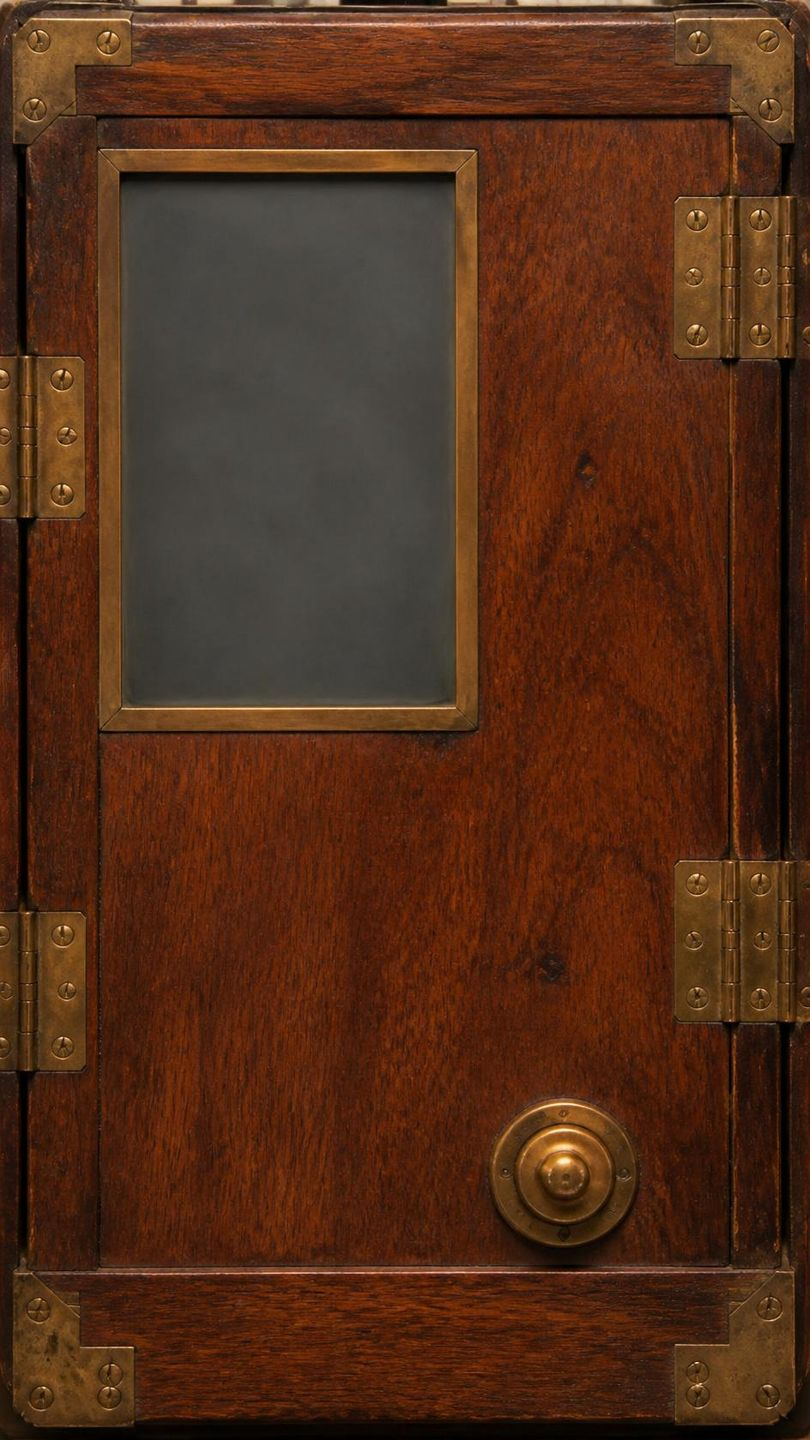
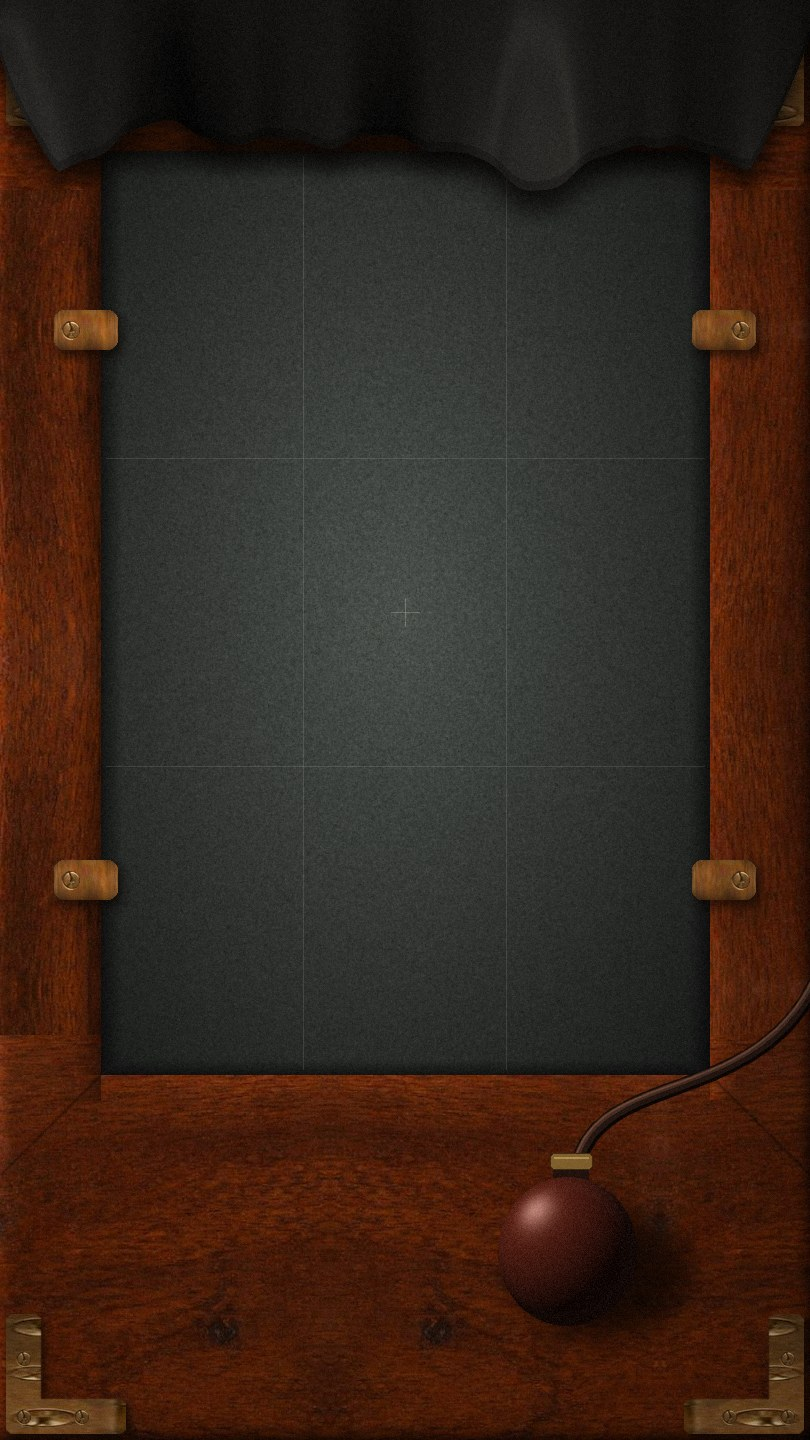
Egito: maleta sem etiquetas e Burton 1922 com corpo de câmera de placa de vidro
Claude-Session: https://claude.ai/code/session_017RJGScnowdndvDzY2p9N3m

diff --git a/APP CARAVANA EGITO/app/caravana-do-ceu.html b/APP CARAVANA EGITO/app/caravana-do-ceu.html
@@ -2255,6 +2255,13 @@ html[data-tab="fotos"] body::before{background:url(img/fundo-papiro-escuro.webp)
 html[data-tab="fotos"] body::after{background:radial-gradient(ellipse at 50% 45%,transparent 60%,rgba(60,35,10,.25))}
 html[data-tab="fotos"] .malafoto.foto .estantefundo{mix-blend-mode:multiply}
 html[data-tab="fotos"] :is(.view>.head h1,.view>.head h2,.view>.lede,.view>p.small){color:var(--ink);text-shadow:none}
+
+/* Burton 1922: linhas gravadas do vidro fosco (terços e cruz) por cima da imagem ao vivo */
+.cf-campo .cfvf .grade{position:absolute;inset:0;background:
+  linear-gradient(90deg,transparent calc(33.33% - .5px),rgba(240,236,220,.28) calc(33.33% - .5px),rgba(240,236,220,.28) calc(33.33% + .5px),transparent calc(33.33% + .5px),transparent calc(66.66% - .5px),rgba(240,236,220,.28) calc(66.66% - .5px),rgba(240,236,220,.28) calc(66.66% + .5px),transparent calc(66.66% + .5px)),
+  linear-gradient(180deg,transparent calc(33.33% - .5px),rgba(240,236,220,.28) calc(33.33% - .5px),rgba(240,236,220,.28) calc(33.33% + .5px),transparent calc(33.33% + .5px),transparent calc(66.66% - .5px),rgba(240,236,220,.28) calc(66.66% - .5px),rgba(240,236,220,.28) calc(66.66% + .5px),transparent calc(66.66% + .5px));
+  box-shadow:inset 0 0 40px rgba(0,0,0,.55)}
+
 </style>
 
 <div class="app">
@@ -6975,7 +6982,7 @@ const FOTO_CAM = {
   super8: { visor: [.292, .097, .713, .507], botao: [.498, .598, .09], selfie: [.8, .76] },
   quatro: { visor: [.255, .31, .73, .625], botao: [.512, .786, .09], selfie: [.8, .88], luzes: [.356, .433, .512, .589].map(y => [.146, y]) },
   // a de madeira mostra a imagem de cabeça para baixo no vidro fosco, como as câmeras de campo de verdade
-  campo: { visor: [.15, .127, .559, .489], botao: [.694, .815, .09], selfie: [.24, .78] },
+  campo: { visor: [.1235, .1042, .8765, .7465], botao: [.70, .865, .085], selfie: [.13, .86] },
   couro: { visor: [.327, .137, .796, .664], botao: [.24, .875, .1], selfie: [.66, .8] },
 };
 // compartimentos da mala (fração da imagem): 3 colunas × 2 fileiras
@@ -7001,9 +7008,7 @@ const IMG_FIXA = new Map();
 function imgFixa(src, cls) { let i = IMG_FIXA.get(src); if (!i) { i = new Image(); i.decoding = "sync"; i.alt = ""; i.src = src; if (i.decode) i.decode().catch(() => {}); IMG_FIXA.set(src, i); } i.className = cls; return i; }
 setTimeout(() => { for (const f of ["maleta-foto.jpg", "carteira-foto.jpg"]) if (temFoto("img/cameras/" + f)) imgFixa("img/cameras/" + f, ""); }, 800);
 // etiquetas de viagem coladas na tampa da maleta (estilo das malas de expedição dos anos 1920)
-function etiquetasEgito() {
-  return h("div", { class: "etiquetas-eg", "aria-hidden": "true" }, [["cairo", "e1"], ["aswan", "e2"], ["luxor", "e3"], ["gize", "e4"]].map(([k, c]) => h("img", { class: "etq " + c, src: "img/adesivos/" + k + ".webp", alt: "" })));
-}
+function etiquetasEgito() { return null; }
 function vEstante() {
   setTimeout(preparaCameras, 300); // já deixa as fotos das câmeras prontas enquanto a pessoa olha a maleta
   const mala = (() => { const foto = temFoto("img/cameras/maleta-foto.jpg"), papel = foto || temFoto("img/cameras/mala-papel.webp"), oito = papel || temFoto("img/cameras/mala-oito.webp"), cheia = oito || temFoto("img/cameras/mala-cheia.jpg"), vazia = temFoto("img/cameras/mala.jpg");
@@ -7094,7 +7099,7 @@ function mudaExpo(d) {
 }
 // botões de cinema em cada câmera: [filtro, nome]
 const CINE_BOTOES = { rajastao: [["cam-kodak-cor", "Color"]], campo: [["cam-cinematic", "Cinematic"]], super8: [["cam-magic", "Magic Lassi"], ["cam-noturno", "Blue Lassi"], ["cam-mango", "Mango Lassi"], ["cam-rose", "Rose Lassi"], ["cam-pista", "Pistache"], ["cam-masala", "Masala"], ["cam-indigo", "Índigo"]] };
-const FILME_CAM = { campo: "Placa de vidro · obturador lento · 1900", couro: "Filme 35 mm desbotado · 1955", quatro: "4 lentes · 4 disparos · ISO 200", rajastao: "Filme preto e branco · 35 mm", descartavel: "Filme de descartável · ISO 400", instantanea: "Filme instantâneo", super8: "Película de cinema" };
+const FILME_CAM = { campo: "Placa de vidro · obturador lento · 1922", couro: "Filme 35 mm desbotado · 1955", quatro: "4 lentes · 4 disparos · ISO 200", rajastao: "Filme preto e branco · 35 mm", descartavel: "Filme de descartável · ISO 400", instantanea: "Filme instantâneo", super8: "Película de cinema" };
 function vCameraFisica(c) {
   const F0 = S.foto || (S.foto = fotoDaCamera(c));
   if (!F0.img && podeCamera() && !S.camFalhou) { const C = iniciaVivo(F0); S.foto = { ...F0, img: C.frame, vivo: true }; }
@@ -7186,13 +7191,14 @@ function vCameraFisica(c) {
         instantanea: [h("i", { class: "circulo" }), h("i", { class: "moldura", style: "inset:10%;border-color:rgba(255,255,255,.4)" })],
         quatro: [h("i", { class: "cruz" }), h("i", { class: "info", text: "1 · 2 · 3 · 4" })],
         super8: [h("i", { class: "info", text: "● REC  18 fps" })],
+        campo: [h("i", { class: "grade" })],
       }[c.id] || []))),
     fc.selfie ? h("button", { type: "button", class: "cfselfie" + (frente ? " on" : ""), "aria-label": frente ? "Voltar para a câmera de trás" : "Selfie", onclick: virar, style: `left:${fc.selfie[0] * 100}%;top:${fc.selfie[1] * 100}%` }) : null,
     (fc.luzes || []).map(([x, y]) => h("span", { class: "cfluz cfluzfoto", style: `left:${x * 100}%;top:${y * 100}%` })),
     F.vivo ? h("button", { type: "button", class: "cfbotaofoto", "aria-label": c.filma && S.camModo === "filme" ? "Filmar" : "Tirar foto", onclick: dispara, onpointerdown: e => apertaFilmar(e, c, F), style: `left:${(fc.botao[0] - fc.botao[2]) * 100}%;top:calc(${fc.botao[1] * 100}% - ${fc.botao[2] * 100 * 9 / 16}%);width:${fc.botao[2] * 200}%` }) : null)) : null;
   const corpo = h("div", { class: "cfcorpo cf-" + c.id + (fotoCorpo ? " comfoto" : "") + (S.gravando ? " gravando" : "") + (c.filma && S.camModo === "filme" ? " modofilme" : "") }, palco,
     c.rajadas && !fotoCorpo ? h("div", { class: "cfluzes", "aria-hidden": "true" }, [1, 2, 3, 4].map(n => h("span", { class: "cfluz" }, String(n)))) : null,
-    h("div", { class: "cfgravado", "aria-hidden": "true", text: { quatro: "CARAVANA", rajastao: "35", descartavel: "BAZAR", instantanea: "KASHI", super8: "8" }[c.id] || "" }),
+    h("div", { class: "cfgravado", "aria-hidden": "true", text: { quatro: "CARAVANA", rajastao: "35", descartavel: "BAZAR", instantanea: "NILO", super8: "8" }[c.id] || "" }),
     h("div", { class: "cftopo" },
       voltaMaleta("topo"),
       h("span", { class: "cfmarca" }, h("img", { src: "img/simbolo-dourado.png", alt: "" }), h("span", null, h("b", { text: c.nome }), h("small", { text: FILME_CAM[c.id] || "" }))),

diff --git a/APP CARAVANA EGITO/tools/egito/tema-gibi.css b/APP CARAVANA EGITO/tools/egito/tema-gibi.css
@@ -381,3 +381,9 @@ html[data-tab="fotos"] body::before{background:url(img/fundo-papiro-escuro.webp)
 html[data-tab="fotos"] body::after{background:radial-gradient(ellipse at 50% 45%,transparent 60%,rgba(60,35,10,.25))}
 html[data-tab="fotos"] .malafoto.foto .estantefundo{mix-blend-mode:multiply}
 html[data-tab="fotos"] :is(.view>.head h1,.view>.head h2,.view>.lede,.view>p.small){color:var(--ink);text-shadow:none}
+
+/* Burton 1922: linhas gravadas do vidro fosco (terços e cruz) por cima da imagem ao vivo */
+.cf-campo .cfvf .grade{position:absolute;inset:0;background:
+  linear-gradient(90deg,transparent calc(33.33% - .5px),rgba(240,236,220,.28) calc(33.33% - .5px),rgba(240,236,220,.28) calc(33.33% + .5px),transparent calc(33.33% + .5px),transparent calc(66.66% - .5px),rgba(240,236,220,.28) calc(66.66% - .5px),rgba(240,236,220,.28) calc(66.66% + .5px),transparent calc(66.66% + .5px)),
+  linear-gradient(180deg,transparent calc(33.33% - .5px),rgba(240,236,220,.28) calc(33.33% - .5px),rgba(240,236,220,.28) calc(33.33% + .5px),transparent calc(33.33% + .5px),transparent calc(66.66% - .5px),rgba(240,236,220,.28) calc(66.66% - .5px),rgba(240,236,220,.28) calc(66.66% + .5px),transparent calc(66.66% + .5px));
+  box-shadow:inset 0 0 40px rgba(0,0,0,.55)}

diff --git a/APP CARAVANA EGITO/tools/egito/camera-burton.py b/APP CARAVANA EGITO/tools/egito/camera-burton.py
@@ -1,0 +1,195 @@
+# Corpo da câmera "Burton 1922": a traseira de uma câmera de campo de placa de vidro, como a de Harry Burton na tumba de Tutankhamon.
+# Vista de frente: moldura de mogno com cantoneiras de latão, vidro fosco grande (o visor), molas de latão segurando o vidro,
+# o pano preto de focar caído por cima e a pera de borracha do obturador embaixo (o botão de foto).
+# Madeira, cantoneiras e parafusos são recortes da foto real antiga (referencias/cameras/campo-corpo-armario.jpg).
+# Gera app/img/cameras/campo-corpo.jpg (810x1440).
+import pathlib, numpy as np
+from PIL import Image, ImageDraw, ImageFilter, ImageChops
+
+R = pathlib.Path(__file__).resolve().parents[2]
+SRC = Image.open(R / "referencias/cameras/campo-corpo-armario.jpg").convert("RGB")
+W, H = 810, 1440
+rng = np.random.default_rng(1922)
+VX0, VY0, VX1, VY1 = 100, 150, 710, 1075  # vidro fosco (o visor)
+
+def madeira(w, h, giro=False):
+    # tábua de mogno a partir do painel liso da foto real; giro=True deixa o veio na horizontal
+    pan = SRC.crop((112, 745, 660, 1075))  # sem o botão de latão (que fica mais embaixo na foto)
+    if giro: pan = pan.rotate(90, expand=True)
+    pw, ph = pan.size; out = Image.new("RGB", (w, h))
+    for y in range(0, h, ph):
+        for x in range(0, w, pw):
+            t = pan if (x // pw + y // ph) % 2 == 0 else pan.transpose(Image.FLIP_TOP_BOTTOM if not giro else Image.FLIP_LEFT_RIGHT)
+            out.paste(t, (x, y))
+    return out
+
+img = madeira(W, H)
+top = madeira(W, VY0 + 40, True); img.paste(top, (0, 0))
+base = madeira(W, H - VY1 + 40, True).transpose(Image.FLIP_TOP_BOTTOM); img.paste(base, (0, VY1 - 40))
+
+a = np.asarray(img).astype(np.float32)
+yy, xx = np.mgrid[0:H, 0:W].astype(np.float32)
+# chanfro das réguas: luz de cima/esquerda, sombra de baixo/direita, e as emendas em meia-esquadria
+def faixa(d, larg): return np.clip(1 - d / larg, 0, 1)
+luz = np.zeros((H, W), np.float32)
+# borda interna da moldura (descendo para o vidro): o chanfro
+dl, dr, dt, db = xx - VX0, VX1 - xx, yy - VY0, VY1 - yy
+dentro = (dl > 0) & (dr > 0) & (dt > 0) & (db > 0)
+fora = ~dentro
+ch = 26
+luz += np.where(fora & (xx > VX1 - 1) & (xx < VX1 + ch) & (yy > VY0 - ch) & (yy < VY1 + ch), .32 * faixa(xx - VX1, ch), 0)  # chanfro direito pega luz
+luz -= np.where(fora & (xx < VX0 + 1) & (xx > VX0 - ch) & (yy > VY0 - ch) & (yy < VY1 + ch), .42 * faixa(VX0 - xx, ch), 0)
+luz -= np.where(fora & (yy < VY0 + 1) & (yy > VY0 - ch) & (xx > VX0 - ch) & (xx < VX1 + ch), .5 * faixa(VY0 - yy, ch), 0)
+luz += np.where(fora & (yy > VY1 - 1) & (yy < VY1 + ch) & (xx > VX0 - ch) & (xx < VX1 + ch), .22 * faixa(yy - VY1, ch), 0)
+# borda externa: arredondada
+for d, s in ((xx, .35), (W - 1 - xx, -.45), (yy, .2), (H - 1 - yy, -.5)): luz += s * faixa(d, 18) ** 2
+a *= (1 + luz)[..., None]
+# emendas: linhas escuras finas de meia-esquadria nos 4 cantos do vidro e nos cantos de fora
+lin = Image.new("L", (W, H), 0); d = ImageDraw.Draw(lin)
+for (x0, y0, sx, sy) in ((VX0, VY0, -1, -1), (VX1, VY0, 1, -1), (VX0, VY1, -1, 1), (VX1, VY1, 1, 1)):
+    ex = 0 if sx < 0 else W; ey = 0 if sy < 0 else H; k = min(abs(ex - x0), abs(ey - y0))
+    d.line([(x0, y0), (x0 + sx * k, y0 + sy * k)], fill=170, width=2)
+d.line([(0, VY0 - 40), (W, VY0 - 40)], fill=60, width=1)
+lin = np.asarray(lin.filter(ImageFilter.GaussianBlur(.8))).astype(np.float32) / 255
+a *= (1 - .55 * lin)[..., None]
+
+# vidro fosco: cinza esverdeado, granulado, com as linhas gravadas
+g = rng.normal(0, 1, (H, W)).astype(np.float32)
+g = np.asarray(Image.fromarray(((g * 18) + 128).clip(0, 255).astype(np.uint8)).filter(ImageFilter.GaussianBlur(.7))).astype(np.float32) - 128
+cx, cy = (VX0 + VX1) / 2, (VY0 + VY1) / 2
+rad = np.sqrt(((xx - cx) / (VX1 - VX0)) ** 2 + ((yy - cy) / (VY1 - VY0)) ** 2)
+vid = np.stack([62 + g * .5, 66 + g * .5, 62 + g * .5], -1) * (1.15 - .9 * rad)[..., None]
+a = np.where(dentro[..., None], vid, a)
+# sombra que a moldura joga no vidro
+som = np.minimum.reduce([dl, dr, dt * .8, db * 1.4])
+a *= np.where(dentro, 1 - .55 * np.clip(1 - som / 22, 0, 1), 1)[..., None]
+img = Image.fromarray(a.clip(0, 255).astype(np.uint8))
+
+dr_ = ImageDraw.Draw(img, "RGBA")
+# grade gravada no vidro (terços) e cruz do centro
+for k in (1, 2):
+    x = VX0 + (VX1 - VX0) * k / 3; y = VY0 + (VY1 - VY0) * k / 3
+    dr_.line([(x, VY0 + 6), (x, VY1 - 6)], fill=(200, 200, 190, 38), width=1)
+    dr_.line([(VX0 + 6, y), (VX1 - 6, y)], fill=(200, 200, 190, 38), width=1)
+dr_.line([(cx - 14, cy), (cx + 14, cy)], fill=(220, 220, 210, 60)); dr_.line([(cx, cy - 14), (cx, cy + 14)], fill=(220, 220, 210, 60))
+
+def latao(w, h):
+    # tira de latão escovado: recorte do friso de latão da foto real
+    t = SRC.crop((104, 152, 470, 166)).resize((max(w, 1), max(h, 1)), Image.LANCZOS) if w > h else SRC.crop((100, 160, 116, 720)).resize((max(w, 1), max(h, 1)), Image.LANCZOS)
+    return t
+parafuso = SRC.crop((24, 28, 50, 54))  # cabeça de parafuso de latão (foto)
+masc_p = Image.new("L", (26, 26), 0); ImageDraw.Draw(masc_p).ellipse((1, 1, 25, 25), fill=255); masc_p = masc_p.filter(ImageFilter.GaussianBlur(.6))
+def poe_parafuso(x, y, s=1.0):
+    p = parafuso.resize((int(26 * s), int(26 * s)), Image.LANCZOS); m = masc_p.resize(p.size, Image.LANCZOS)
+    img.paste(p, (int(x - p.width / 2), int(y - p.height / 2)), m)
+
+def sombra(caixa, raio=8, alfa=150, desl=(5, 7), forma="ret"):
+    m = Image.new("L", (W, H), 0); dm = ImageDraw.Draw(m)
+    x0, y0, x1, y1 = caixa; x0 += desl[0]; x1 += desl[0]; y0 += desl[1]; y1 += desl[1]
+    (dm.ellipse if forma == "eli" else dm.rectangle)((x0, y0, x1, y1), fill=alfa)
+    m = m.filter(ImageFilter.GaussianBlur(raio))
+    img.paste(Image.new("RGB", (W, H), (12, 6, 3)), (0, 0), m)
+
+# molas de latão segurando o vidro (duas de cada lado), parafusadas na moldura
+for y in (330, 880):
+    for lado in (-1, 1):
+        x0 = VX0 - 46 if lado < 0 else VX1 - 18
+        sombra((x0, y - 20, x0 + 64, y + 20), 5, 160, (4, 6))
+        tira = latao(64, 40)
+        ta = np.asarray(tira).astype(np.float32)
+        perfil = np.linspace(-1, 1, 40)[:, None]
+        ta *= (1.12 - .38 * perfil ** 2 - .12 * perfil)[..., None]  # curvatura da mola
+        tira = Image.fromarray(ta.clip(0, 255).astype(np.uint8))
+        mm = Image.new("L", (64, 40), 0); ImageDraw.Draw(mm).rounded_rectangle((0, 0, 63, 39), 10, fill=255)
+        img.paste(tira, (x0, y - 20), mm)
+        poe_parafuso(x0 + (16 if lado < 0 else 48), y, .8)
+
+# cantoneiras de latão em L nos 4 cantos (latão maciço da dobradiça da foto real), com parafusos
+latao_dob = SRC.crop((684, 200, 724, 352))
+def cantoneira(fx, fy):
+    L, e = 120, 34
+    t = latao_dob.resize((L, L), Image.LANCZOS)
+    ta = np.asarray(t).astype(np.float32); g_ = np.linspace(1.12, .82, L)
+    ta *= (g_[:, None] * g_[None, :] ** .5)[..., None] * 1.05
+    t = Image.fromarray(ta.clip(0, 255).astype(np.uint8))
+    m = Image.new("L", (L, L), 0); dm = ImageDraw.Draw(m)
+    dm.rounded_rectangle((0, 0, L - 1, e), 6, fill=255); dm.rounded_rectangle((0, 0, e, L - 1), 6, fill=255)
+    m = m.filter(ImageFilter.GaussianBlur(.7))
+    if fx: t, m = t.transpose(Image.FLIP_LEFT_RIGHT), m.transpose(Image.FLIP_LEFT_RIGHT)
+    if fy: t, m = t.transpose(Image.FLIP_TOP_BOTTOM), m.transpose(Image.FLIP_TOP_BOTTOM)
+    px, py = (W - L - 6 if fx else 6), (H - L - 6 if fy else 6)
+    sm = Image.new("L", (W, H), 0); sm.paste(m, (px + 4, py + 5)); sm = sm.filter(ImageFilter.GaussianBlur(4))
+    img.paste(Image.new("RGB", (W, H), (12, 6, 3)), (0, 0), sm.point(lambda v: v * .7))
+    img.paste(t, (px, py), m)
+    for (u, v) in ((17, 17), (17, 75), (75, 17)):
+        poe_parafuso(px + (L - u if fx else u), py + (L - v if fy else v), .62)
+for fx in (0, 1):
+    for fy in (0, 1): cantoneira(fx, fy)
+
+# (sem plaqueta gravada: os controles de tom, Cinematic e Foto/Filme ocupam o canto de baixo à esquerda)
+# pera de borracha do obturador, com o tubo subindo para a lente (que fica do outro lado)
+BX, BY, BR = int(.70 * W), int(.865 * H), 70
+S4 = 3
+cam = Image.new("RGBA", (W * S4, H * S4), (0, 0, 0, 0)); dc = ImageDraw.Draw(cam)
+pts = []
+for t in np.linspace(0, 1, 60):
+    p0, p1, p2, p3 = np.array([BX + 8, BY - BR + 6]), np.array([BX + 20, BY - 190]), np.array([W - 30, BY - 120]), np.array([W + 20, BY - 300])
+    pts.append(tuple(((1 - t) ** 3 * p0 + 3 * (1 - t) ** 2 * t * p1 + 3 * (1 - t) * t ** 2 * p2 + t ** 3 * p3) * S4))
+sombra((BX - BR, BY - BR + 20, BX + BR + 40, BY + BR + 10), 14, 190, (12, 14), "eli")
+for larg, cor in ((15, (14, 8, 6, 255)), (11, (44, 26, 20, 255)), (5, (82, 52, 40, 255)), (2, (130, 92, 74, 200))):
+    dc.line([(x - (15 - larg) * .25 * S4, y - (15 - larg) * .25 * S4) for x, y in pts], fill=cor, width=larg * S4, joint="curve")
+# gargalo
+dc.rounded_rectangle(((BX - 14) * S4, (BY - BR - 16) * S4, (BX + 22) * S4, (BY - BR + 22) * S4), 10 * S4, fill=(40, 22, 16, 255))
+cam = cam.resize((W, H), Image.LANCZOS); img.paste(cam, (0, 0), cam)
+# a pera: borracha vermelho-escura envelhecida, com brilho e granulado
+by0 = BY - BR; ry = int(BR * 1.08)
+pe = np.zeros((2 * ry, 2 * BR + 1, 4), np.float32)
+py_, px_ = np.mgrid[-ry:ry, -BR:BR + 1].astype(np.float32)
+r = np.sqrt((px_ / BR) ** 2 + (py_ / ry) ** 2)
+nz = np.sqrt(np.clip(1 - r ** 2, 0, 1)); nx, ny = px_ / BR, py_ / ry
+lam = np.clip(-.55 * nx - .6 * ny + .6 * nz, 0, 1)
+spec = np.clip(-.45 * nx - .55 * ny + .7 * nz, 0, 1) ** 28
+base_c = np.array([92, 34, 22], np.float32)
+gr = rng.normal(0, 1, r.shape).astype(np.float32) * 5
+col = base_c * (.22 + .95 * lam)[..., None] + gr[..., None] + (spec * 120)[..., None]
+col += (np.clip(.15 + .1 * nx, 0, 1) * 18)[..., None] * (r > .8)[..., None]  # luz rebatida na borda
+pe[..., :3] = col; pe[..., 3] = np.clip((1 - r) * BR * 1.2, 0, 1) * 255
+pera = Image.fromarray(pe.clip(0, 255).astype(np.uint8), "RGBA")
+img.paste(pera, (BX - BR, BY - ry + 6), pera)
+# aro de latão no gargalo
+dr_ = ImageDraw.Draw(img, "RGBA")
+dr_.rounded_rectangle((BX - 17, by0 - 22, BX + 25, by0 - 6), 5, fill=(150, 112, 52, 255), outline=(70, 48, 20, 255))
+dr_.line([(BX - 13, by0 - 18), (BX + 21, by0 - 18)], fill=(232, 200, 130, 160), width=2)
+
+# pano preto de focar, caído por cima da câmera: veludo com dobras fundas e brilho nas cristas
+fx = np.arange(W, dtype=np.float32)
+ond = np.sin(fx / 38 + .4) * .55 + np.sin(fx / 17 + 1.3) * .22 + np.sin(fx / 97 + 2.1) * .7 + np.sin(fx / 7.3) * .06
+borda = 142 + 26 * ond + 14 * np.abs(np.sin(fx / 55 + .9))
+borda[:60] -= np.linspace(60, 0, 60) ** 1.2 * .9; borda[-60:] -= np.linspace(0, 70, 60) ** 1.1 * .8
+cl = int(borda.max()) + 30
+yv = np.arange(cl, dtype=np.float32)[:, None]
+# as dobras vão abrindo de cima para baixo: perto do topo o pano está mais liso
+prof = np.clip(yv / borda[None, :], 0, 1)
+dob = ond[None, :] * (.35 + .65 * prof)
+incl = np.gradient(ond)[None, :] * (.35 + .65 * prof)
+den = rng.normal(0, 1, (cl, W)).astype(np.float32)
+den = np.asarray(Image.fromarray((den * 30 + 128).clip(0, 255).astype(np.uint8)).filter(ImageFilter.GaussianBlur(.5))).astype(np.float32) - 128
+lumv = 9 + 24 * np.clip(dob * .7 + .55, 0, 1.3) + 170 * np.clip(-incl, 0, .09) - 120 * np.clip(incl, 0, .06)
+crista = np.exp(-((dob - .62) / .14) ** 2) * 9  # brilho do veludo nas cristas
+lumv = lumv + crista + den * .1
+lumv *= np.clip(1.05 - (np.maximum(borda[None, :] - yv, 0) < 10) * .25, .6, 1.1)  # bainha mais escura
+alfa = np.clip((borda[None, :] - yv) * 1.2, 0, 1)
+pano = np.stack([lumv * 1.03, lumv * .98, lumv * .92, alfa * 255], -1)
+pano = Image.fromarray(pano.clip(0, 255).astype(np.uint8), "RGBA")
+som_p = Image.fromarray((np.clip((borda[None, :] + 22 - yv) / 22, 0, 1) * 200).astype(np.uint8)).filter(ImageFilter.GaussianBlur(10))
+img.paste(Image.new("RGB", som_p.size, (6, 4, 2)), (0, 8), som_p)
+img.paste(pano, (0, 0), pano)
+
+# luz da cena: vinda de cima à esquerda, cantos mais escuros, grão leve
+a = np.asarray(img).astype(np.float32)
+v = np.sqrt(((xx - W * .4) / W) ** 2 + ((yy - H * .35) / H) ** 2)
+a *= (1.08 - .62 * v ** 1.6)[..., None]
+a += rng.normal(0, 3.2, a.shape[:2])[..., None]
+img = Image.fromarray(a.clip(0, 255).astype(np.uint8))
+img.save(R / "app/img/cameras/campo-corpo.jpg", quality=88)
+print("campo-corpo.jpg", img.size, "visor", [round(VX0 / W, 4), round(VY0 / H, 4), round(VX1 / W, 4), round(VY1 / H, 4)], "botão", [.70, .865])

diff --git a/APP CARAVANA EGITO/tools/egito/estudio-egito.py b/APP CARAVANA EGITO/tools/egito/estudio-egito.py
@@ -53,16 +53,19 @@ R = [
  ('27 POSES · ISO 400 · ÍNDIA 2026', '27 POSES · ISO 400 · EGITO 2027'),
  ('CARAVANA DO CÉU · ÍNDIA SAGRADA ·', 'CARAVANA DO CÉU · EGITO ·'),
  ('// Adesivos: logos da Caravana, bichos da Índia (os mesmos do Explorador), coisas da Índia, brilhos e frases', '// Adesivos: logos da Caravana, bichos (os mesmos do Explorador), coisas do Egito, etiquetas, brilhos e frases'),
+ # Burton 1922: o corpo novo é a traseira da câmera de placa (tools/egito/camera-burton.py): vidro fosco grande e a pera de borracha
+ ('campo: { visor: [.15, .127, .559, .489], botao: [.694, .815, .09], selfie: [.24, .78] },', 'campo: { visor: [.1235, .1042, .8765, .7465], botao: [.70, .865, .085], selfie: [.13, .86] },'),
+ ('campo: "Placa de vidro · obturador lento · 1900"', 'campo: "Placa de vidro · obturador lento · 1922"'),
+ ('super8: [h("i", { class: "info", text: "● REC  18 fps" })],', 'super8: [h("i", { class: "info", text: "● REC  18 fps" })],\n        campo: [h("i", { class: "grade" })],'),
+ ('instantanea: "KASHI"', 'instantanea: "NILO"'),
 ]
 for a, b in R:
     if b in t: continue
     if a in t: t = t.replace(a, b)
     else: print("não achei:", a[:70])
-# maleta: as mesmas etiquetas, coladas na tampa
+# maleta: a Vivian achou feio com etiquetas na tampa; elas ficam só no estúdio
 a = t.index("function etiquetasEgito() {"); b = t.index("function vEstante() {")
-t = t[:a] + '''function etiquetasEgito() {
-  return h("div", { class: "etiquetas-eg", "aria-hidden": "true" }, [["cairo", "e1"], ["aswan", "e2"], ["luxor", "e3"], ["gize", "e4"]].map(([k, c]) => h("img", { class: "etq " + c, src: "img/adesivos/" + k + ".webp", alt: "" })));
-}
+t = t[:a] + '''function etiquetasEgito() { return null; }
 ''' + t[b:]
 p.write_text(t); print("estúdio do Egito")
 

diff --git a/APP CARAVANA EGITO/CONHECIMENTO.md b/APP CARAVANA EGITO/CONHECIMENTO.md
@@ -279,3 +279,5 @@ O roteiro contratado, dia a dia (sem os valores). Complementa o roteiro da Vivia
 - Elas ficam coladas na tampa da maleta (perspectiva + luz da foto) e viram a categoria "Etiquetas do Egito" no estúdio.
 - `tools/egito/estudio-egito.py` troca a Índia pelo Egito no estúdio e na câmera: carimbos de tinta e redondos, selos "EGITO · 2027", textos, foto de exemplo dos filtros (Luxor). O Shiva saiu do "Meu explorador".
 - Ainda falta trocar o conteúdo grande da Índia: deuses-guardiões, ensinamentos, cobras e escadas, conversor de rúpias, carta final e textos da IA.
+- A maleta ficou SEM etiquetas na tampa (a Vivian achou feio); as etiquetas ficam só no estúdio.
+- Burton 1922 (out/2026): o corpo virou a traseira de uma câmera de campo de placa de vidro, gerada por `tools/egito/camera-burton.py`. Ela tem moldura de mogno (madeira da foto real antiga, guardada em `referencias/cameras/campo-corpo-armario.jpg`), vidro fosco grande com as linhas dos terços, molas e cantoneiras de latão, o pano preto de focar caído por cima e a pera de borracha do obturador como botão de foto.
